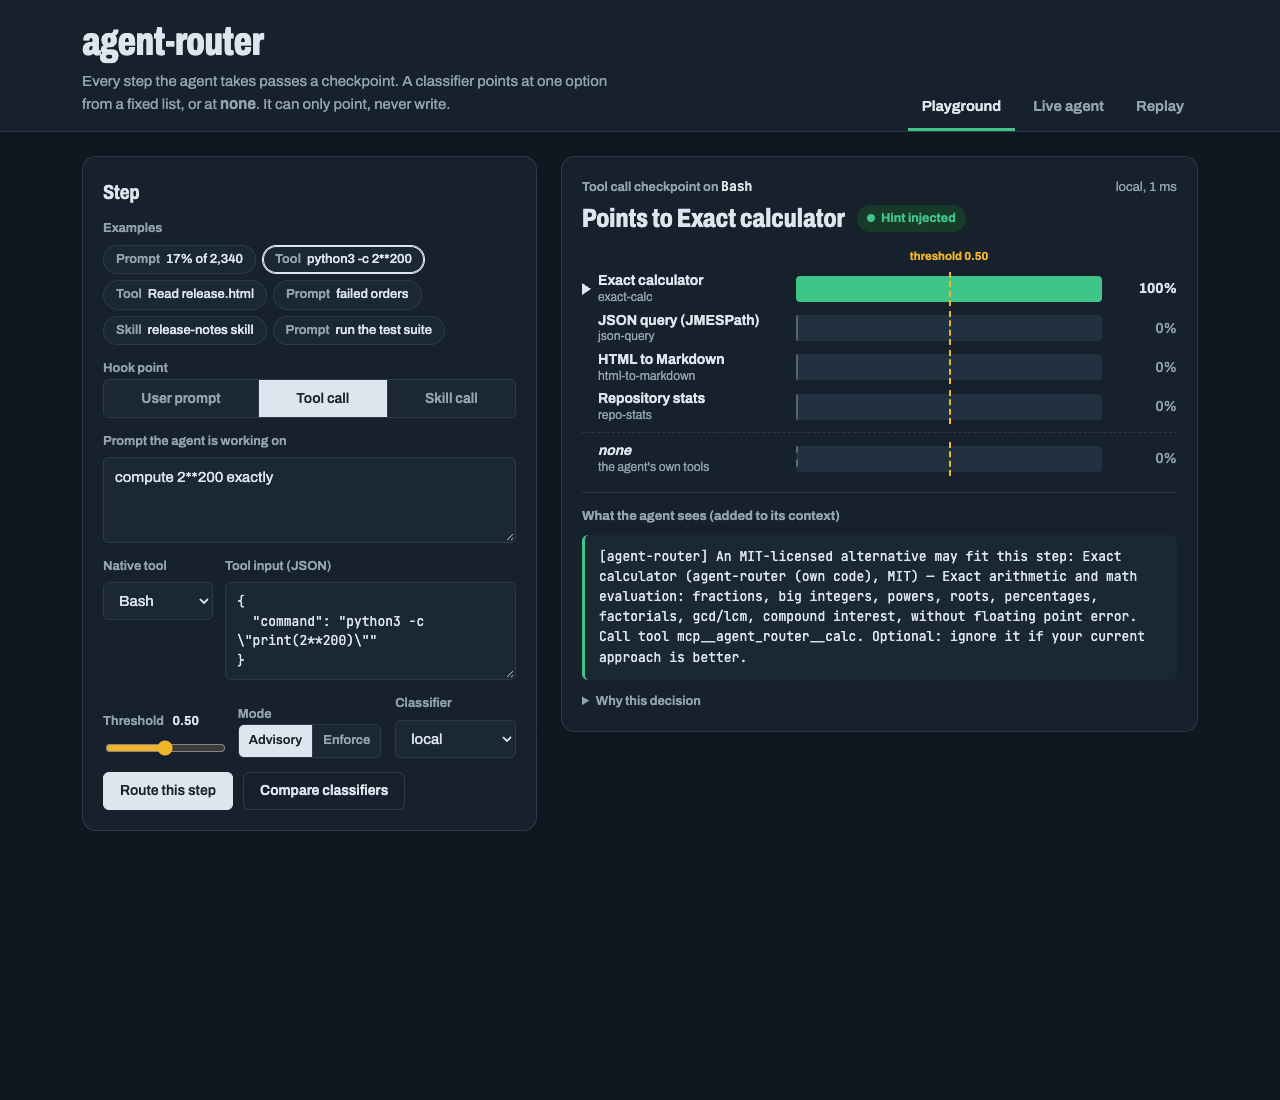
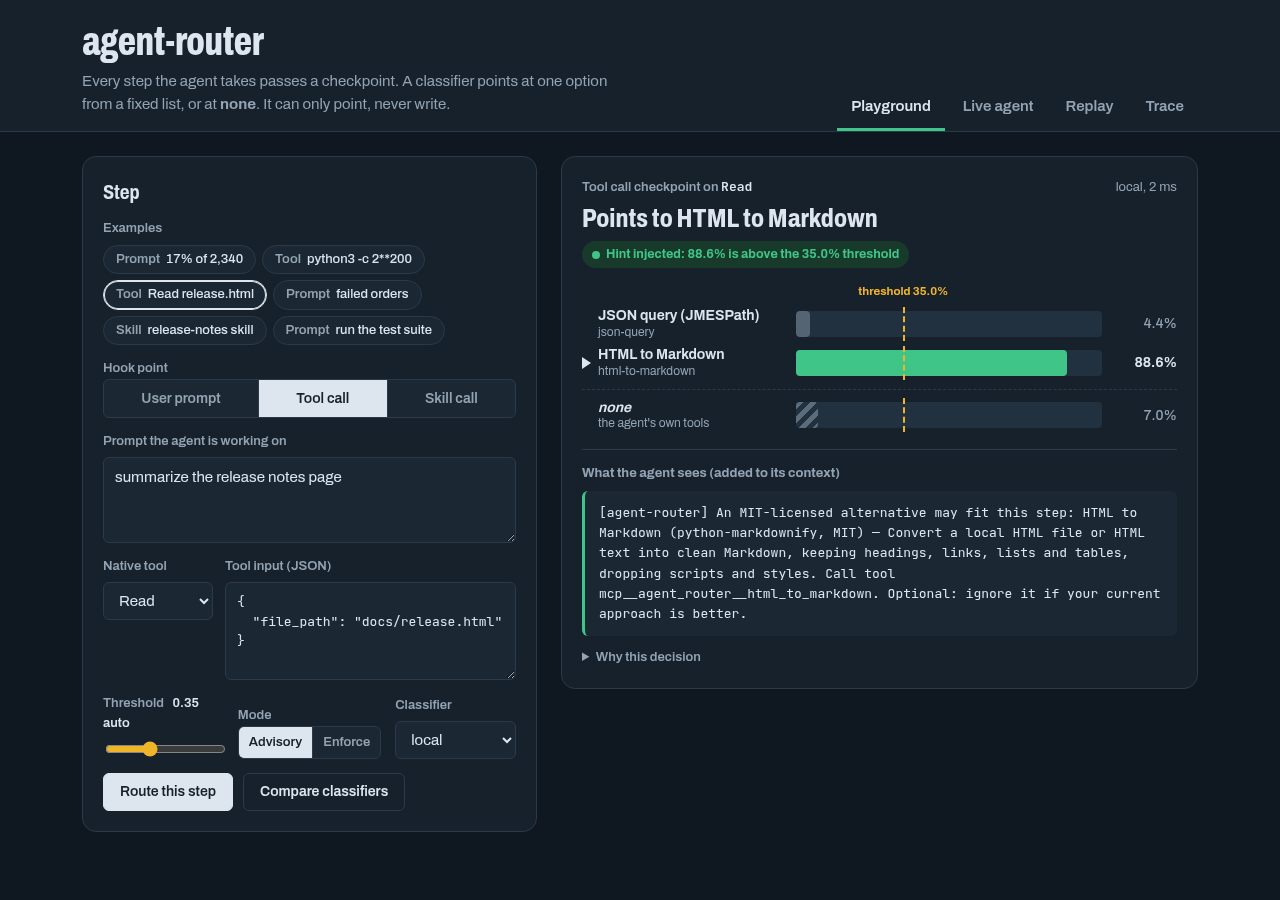
docs(img): retake the demo screenshots as it runs today
All screenshots retaken with headless Chromium (Playwright) against the current demo, offline
(local classifier, no API keys):
- demo-playground(-dark/-400).png: the Playground on "Read release.html", now with the Trace tab
  and the threshold explanation in the badge; the README hero is now the Playground.
- demo-compare.png: Compare classifiers without keys (only local answers); moved to the
  technical guide's backends section with a caption saying so.
- demo-live.png: a real Live agent run ("17% of 2,340"; 3 turns, $0.04).
- demo-replay.png: the 11-checkpoint sample session.
- demo-trace.png (new): the Trace tab on the estimate-fermi capture replayed through today's
  trace.py (hand-off label, contract status, decisions source); home paths rewritten.

diff --git a/README.md b/README.md
@@ -6,7 +6,7 @@ moment, looks at what it's about to do, and checks it against a short, fixed lis
 MIT licensed · works with the [Claude Agent SDK](https://github.com/anthropics/claude-agent-sdk-python) today ·
 designed to also plug into Codex CLI and Gemini CLI.
 
-![The demo: one agent step, judged by every classifier](docs/img/demo-compare.png)
+![The demo's Playground: one agent step, the checkpoint's decision, and the note the agent receives](docs/img/demo-playground.png)
 
 ## The idea, explained simply
 
@@ -72,6 +72,8 @@ The page has four tabs:
 | **Live agent** | Give a real Claude agent a task and watch every checkpoint happen, step by step. | A few cents per run |
 | **Replay** | Step back through any earlier run, one checkpoint at a time. | Free |
 | **Trace** | What an integrated agent did and decided in a run (for now, the first-principles agent): sections written, references opened, calculator use against the router's notes, the parsed conclusion, assumptions and Self-Audit Gate. Follows a run live (`make trace`). | Free |
+
+![The Trace tab: a first-principles run's summary card, what the agent did, and what it decided](docs/img/demo-trace.png)
 
 ### How to read a decision
 

diff --git a/docs/technical-guide.md b/docs/technical-guide.md
@@ -126,6 +126,8 @@ The demo has four tabs:
 | Live agent | Replay |
 |---|---|
 | ![Live agent timeline](img/demo-live.png) | ![Replay](img/demo-replay.png) |
+| **Playground (dark)** | **Trace** |
+| ![Playground in dark mode](img/demo-playground-dark.png) | ![Trace](img/demo-trace.png) |
 
 `make help` lists all targets:
 
@@ -156,6 +158,11 @@ Extras are optional:
 
 Choose a backend with `--backend`. Without the flag, the default is `cascade` when a Jev key is set,
 otherwise `local`.
+
+The Playground's **Compare classifiers** runs one step through every backend. Without keys or
+extras, as below, only `local` answers and the others say what they need:
+
+![Compare classifiers with no API key: local answers, the rest are unavailable](img/demo-compare.png)
 
 | Backend | What it is | License | Needs |
 |---|---|---|---|

diff --git a/integrations/first-principles/README.md b/integrations/first-principles/README.md
@@ -290,6 +290,9 @@ Replaying the 28 example captures with their reports removed gives decisions for
 
 **In the demo.** The **Trace** tab shows each run: a summary card, a timeline of what the agent
 did with the router's notes placed where they fired, and the decisions parsed from its report.
+
+![Trace tab: the estimate-fermi example replayed through today's trace.py](../../docs/img/demo-trace.png)
+
 Start it before or during a run, from the checkout:
 
 ```bash
